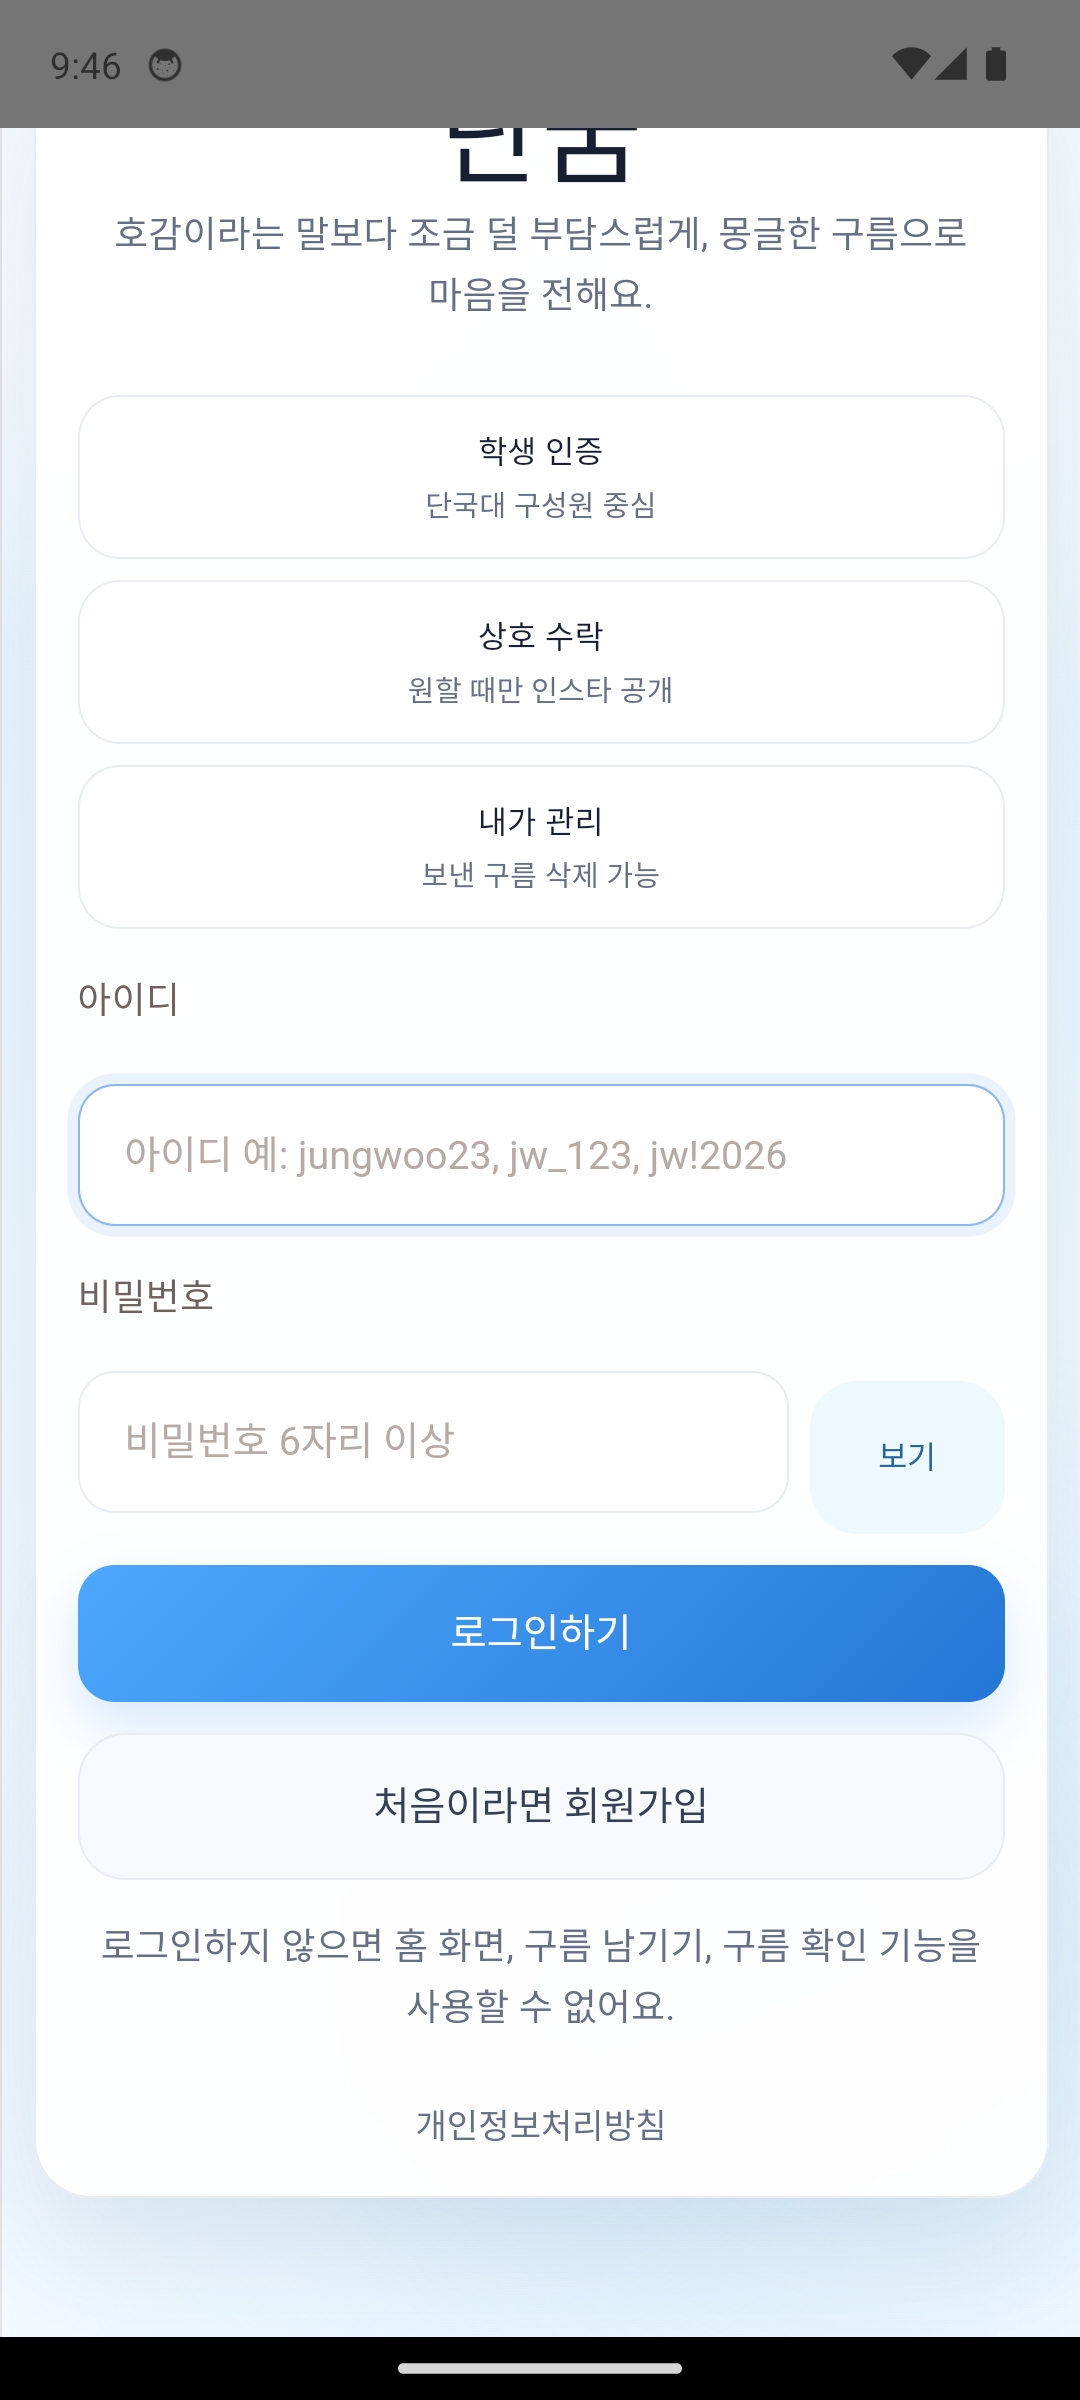
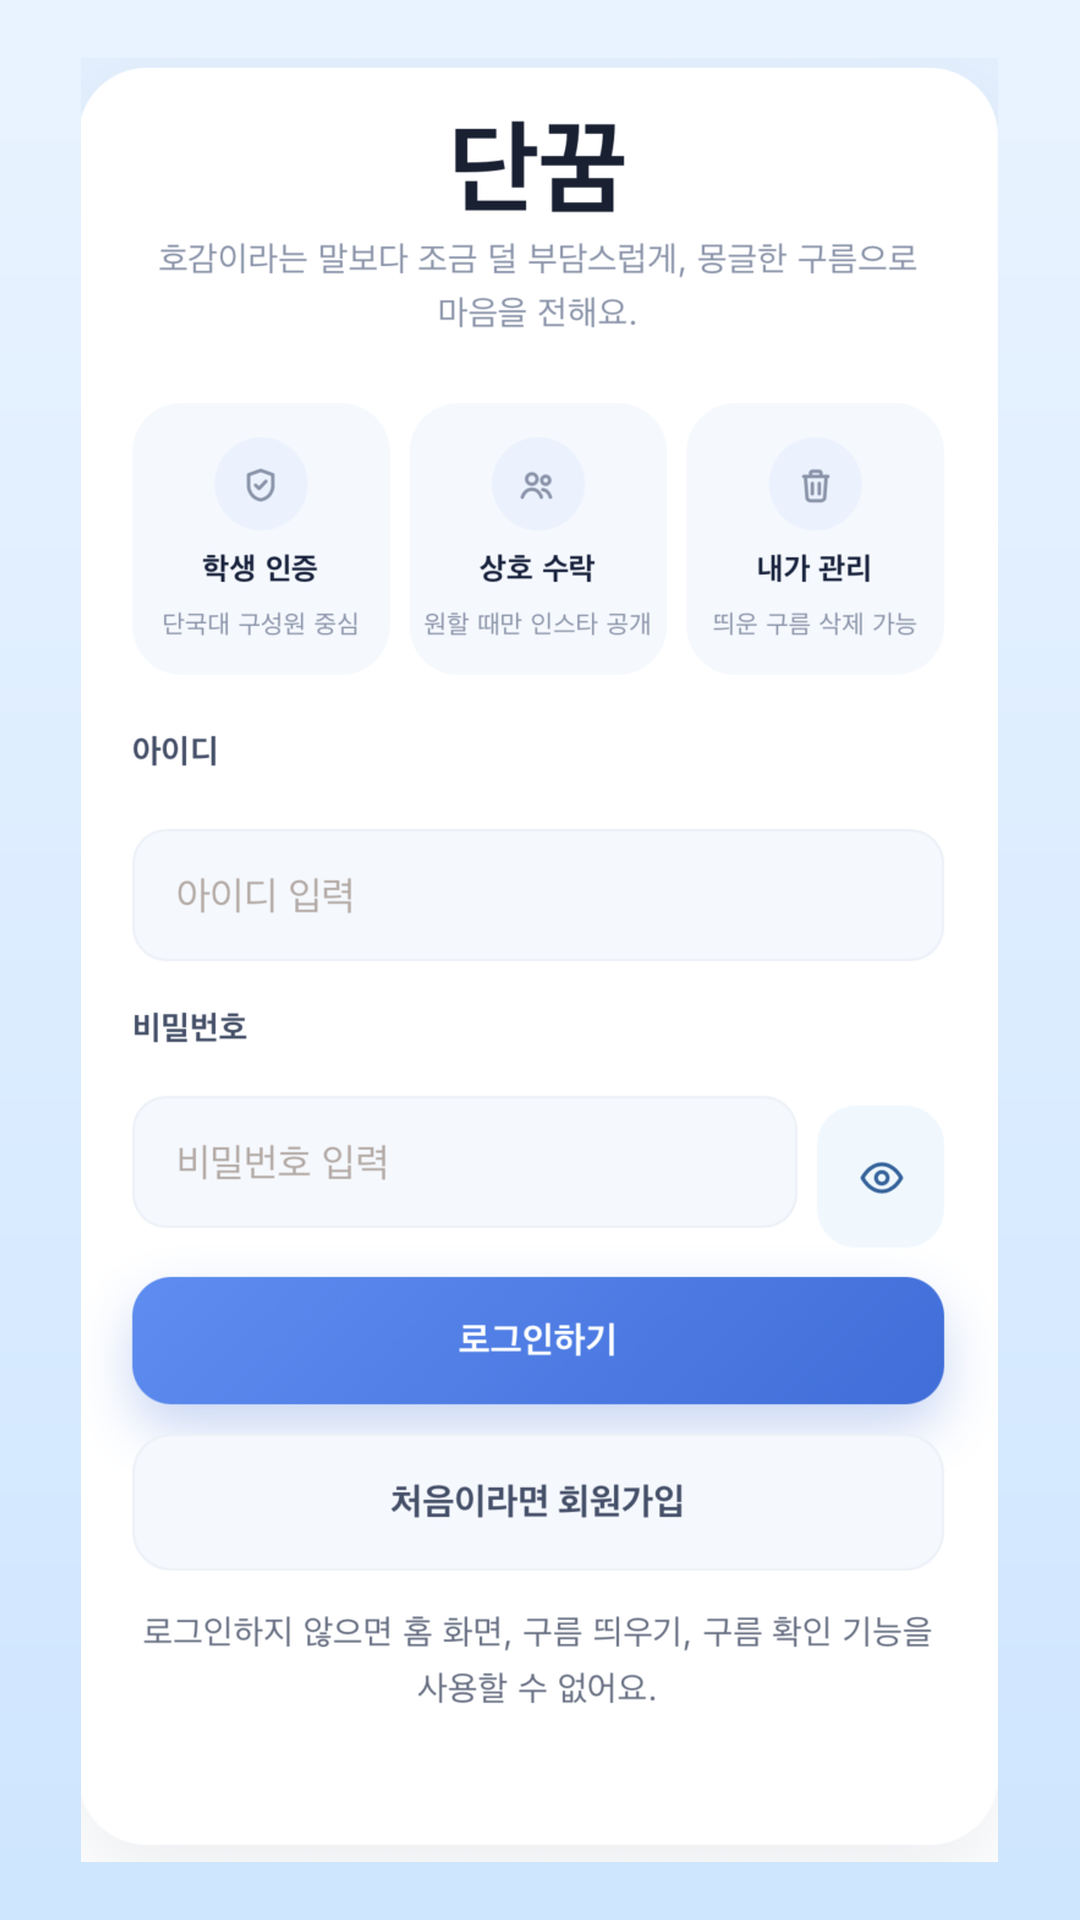
Sync Android Capacitor plugins and update store assets
Add capacitor-app plugin and OneSignal gradle build include, refresh
store screenshots and feature graphic, and track project expense log.

diff --git a/단꿈_지출내역.md b/단꿈_지출내역.md
@@ -1,0 +1,7 @@
+# 단꿈 프로젝트 지출 내역
+
+| 날짜 | 항목 | 금액(원) | 비고 |
+|---|---|---|---|
+| 2026-08-30 | 아메리카노 | 9,000 | 1,800원 × 5 |
+
+**누적 지출: 9,000원**
